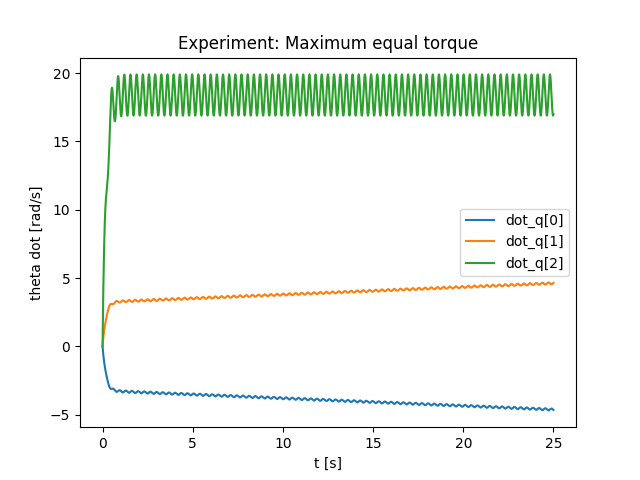
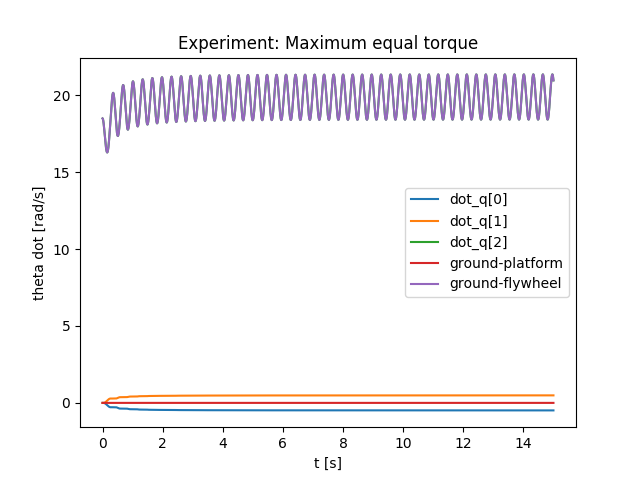
minimum torque set to 0

diff --git a/software/mechanical_computations/lagrange_1.py b/software/mechanical_computations/lagrange_1.py
@@ -6,10 +6,10 @@ import scipy
 from scipy import optimize, integrate
 from robot import Robot
 
-#experiment = "Maximum equal torque"
+experiment = "Maximum equal torque"
 #experiment = "PID 90º"
 #experiment = "Only flywheel torque"
-experiment = "No torque"
+#experiment = "No torque"
 
 
 accumulated_error = 0
@@ -48,7 +48,7 @@ def PID(error, time):
 
 def external_torque(robot, t, q, dot_q):
     if experiment == "Maximum equal torque":
-        tau = min(2*robot.max_torque(dot_q[1]), robot.max_torque(dot_q[2]))
+        tau = max(0,min(2*robot.max_torque(dot_q[1]), robot.max_torque(dot_q[2])))
         return [0, tau, tau]
     elif (experiment == "PID 90º"):
         output = PID( (math.pi/2) - (q[0]+q[1]+q[2]), t)
@@ -56,7 +56,7 @@ def external_torque(robot, t, q, dot_q):
         tau = min(output, robot.max_torque(dot_q[1]), robot.max_torque(dot_q[2]))
         return [0, tau, tau]
     elif (experiment == "Only flywheel torque"):
-        return [0, 0, robot.max_torque(dot_q[2])]
+        return [0, 0, max(0,robot.max_torque(dot_q[2]))]
     else:
         return [0, 0, 0]
 
@@ -92,7 +92,7 @@ my_robot.set_r_flywheel_r_wheel_w_N(.086, .10, .04, 2)
 initial_contition = [0,0,0,0,0,18.5]
 ode_int = scipy.integrate.solve_ivp(
     system_function(my_robot),
-    (0, 25),
+    (0, 15),
     initial_contition,
     max_step=0.001,
     method='RK45',
